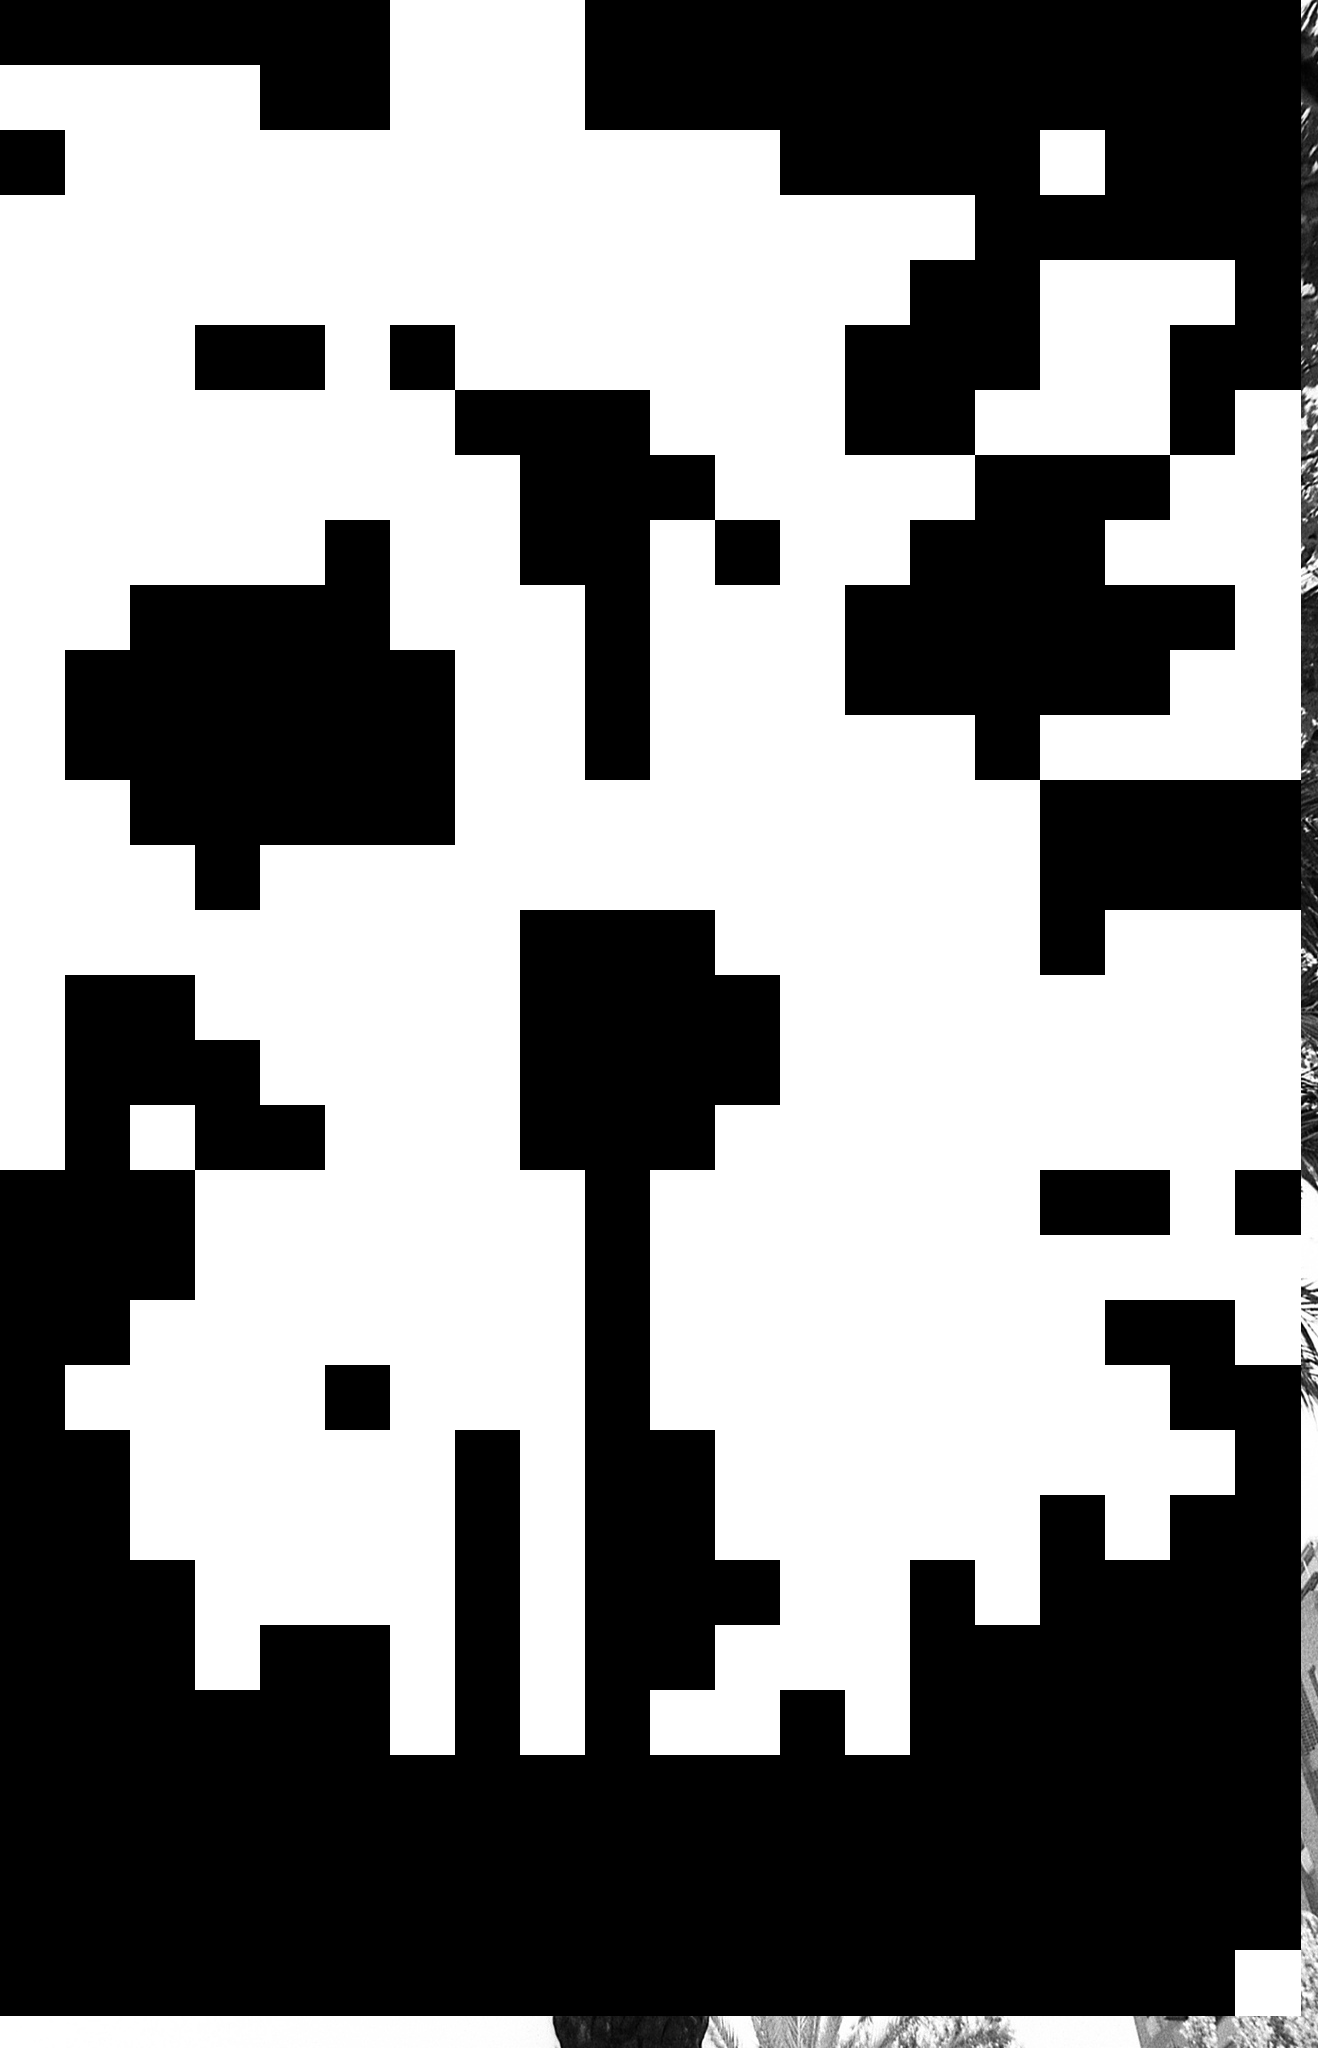
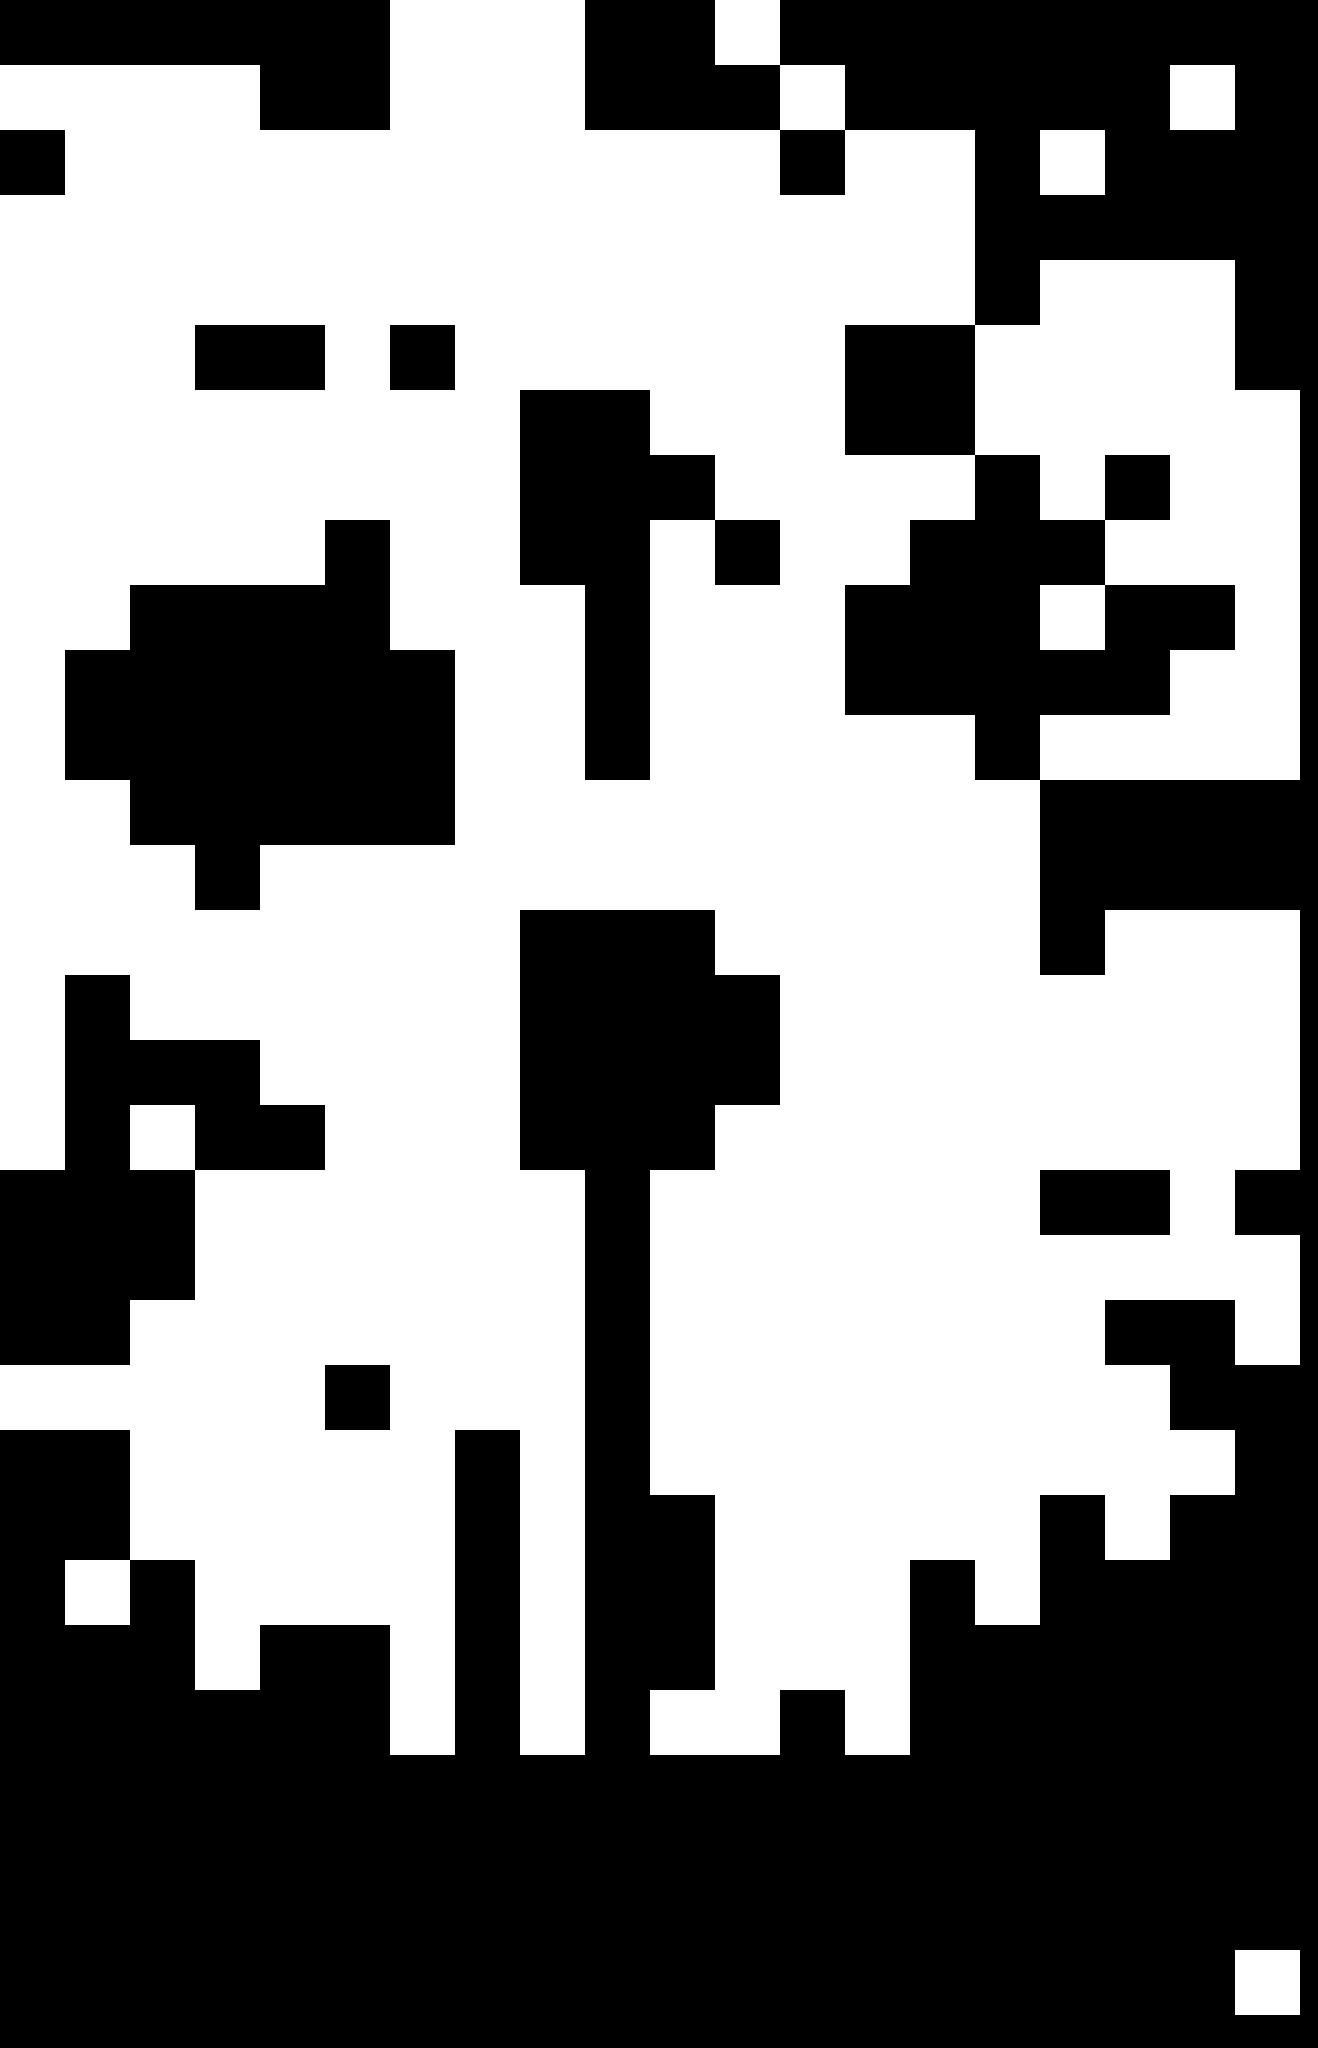
fix image segmentation

diff --git a/lab5/lab5.py b/lab5/lab5.py
@@ -21,12 +21,14 @@ class FractalImage:
 
     def segment(self):
         self.to_grayscale()
-        cell_size = int(min(self.width, self.height) / 40)
+        cell_size = int(min(self.width, self.height) / 20)
         deltas = [1, 2]
-        a = np.zeros((int(self.width / cell_size), int(self.height / cell_size)))
+        w = int(self.width / cell_size) + 1
+        h = int(self.height / cell_size) + 1
+        a = np.zeros((w, h))
 
-        for x in range(int(self.width / cell_size)):
-            for y in range(int(self.height / cell_size)):
+        for x in range(w):
+            for y in range(h):
                 img = self.img.crop((x * cell_size, y * cell_size, x * cell_size + cell_size, y * cell_size + cell_size))
                 pixels = img.load()
 
@@ -60,8 +62,8 @@ class FractalImage:
         threshold = np.mean(a)
         print(threshold)
 
-        for x in range(int(self.width / cell_size)):
-            for y in range(int(self.height / cell_size)):
+        for x in range(w):
+            for y in range(h):
                 if a[x][y] > threshold:
                     ImageDraw.Draw(self.img).rectangle(
                         (x * cell_size, y * cell_size, x * cell_size + cell_size, y * cell_size + cell_size),
@@ -75,6 +77,5 @@ class FractalImage:
 
 
 image1 = FractalImage('images/img5.png')
-image1.show()
 image1.segment()
 image1.save('output/img5.png')
